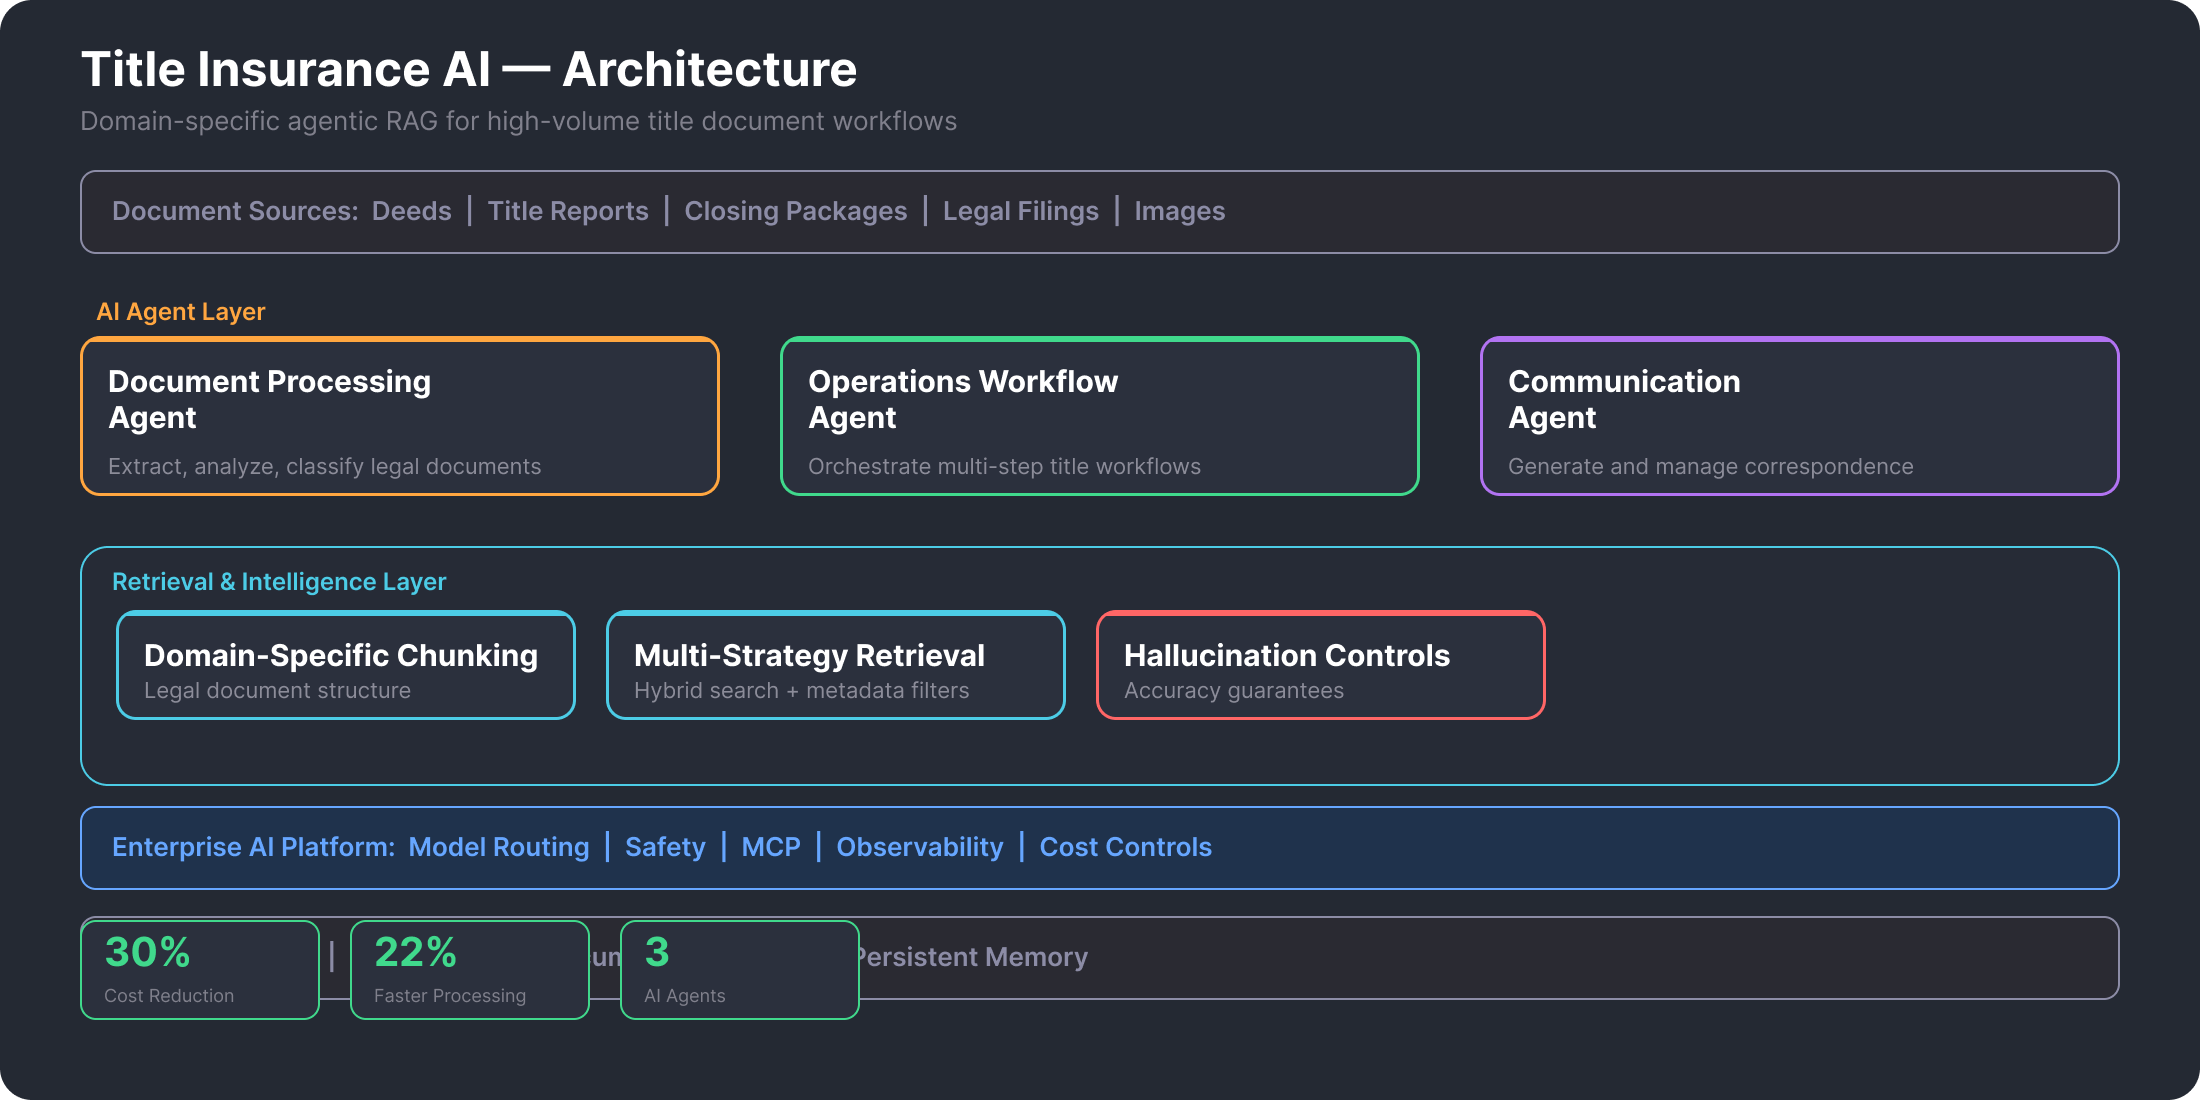
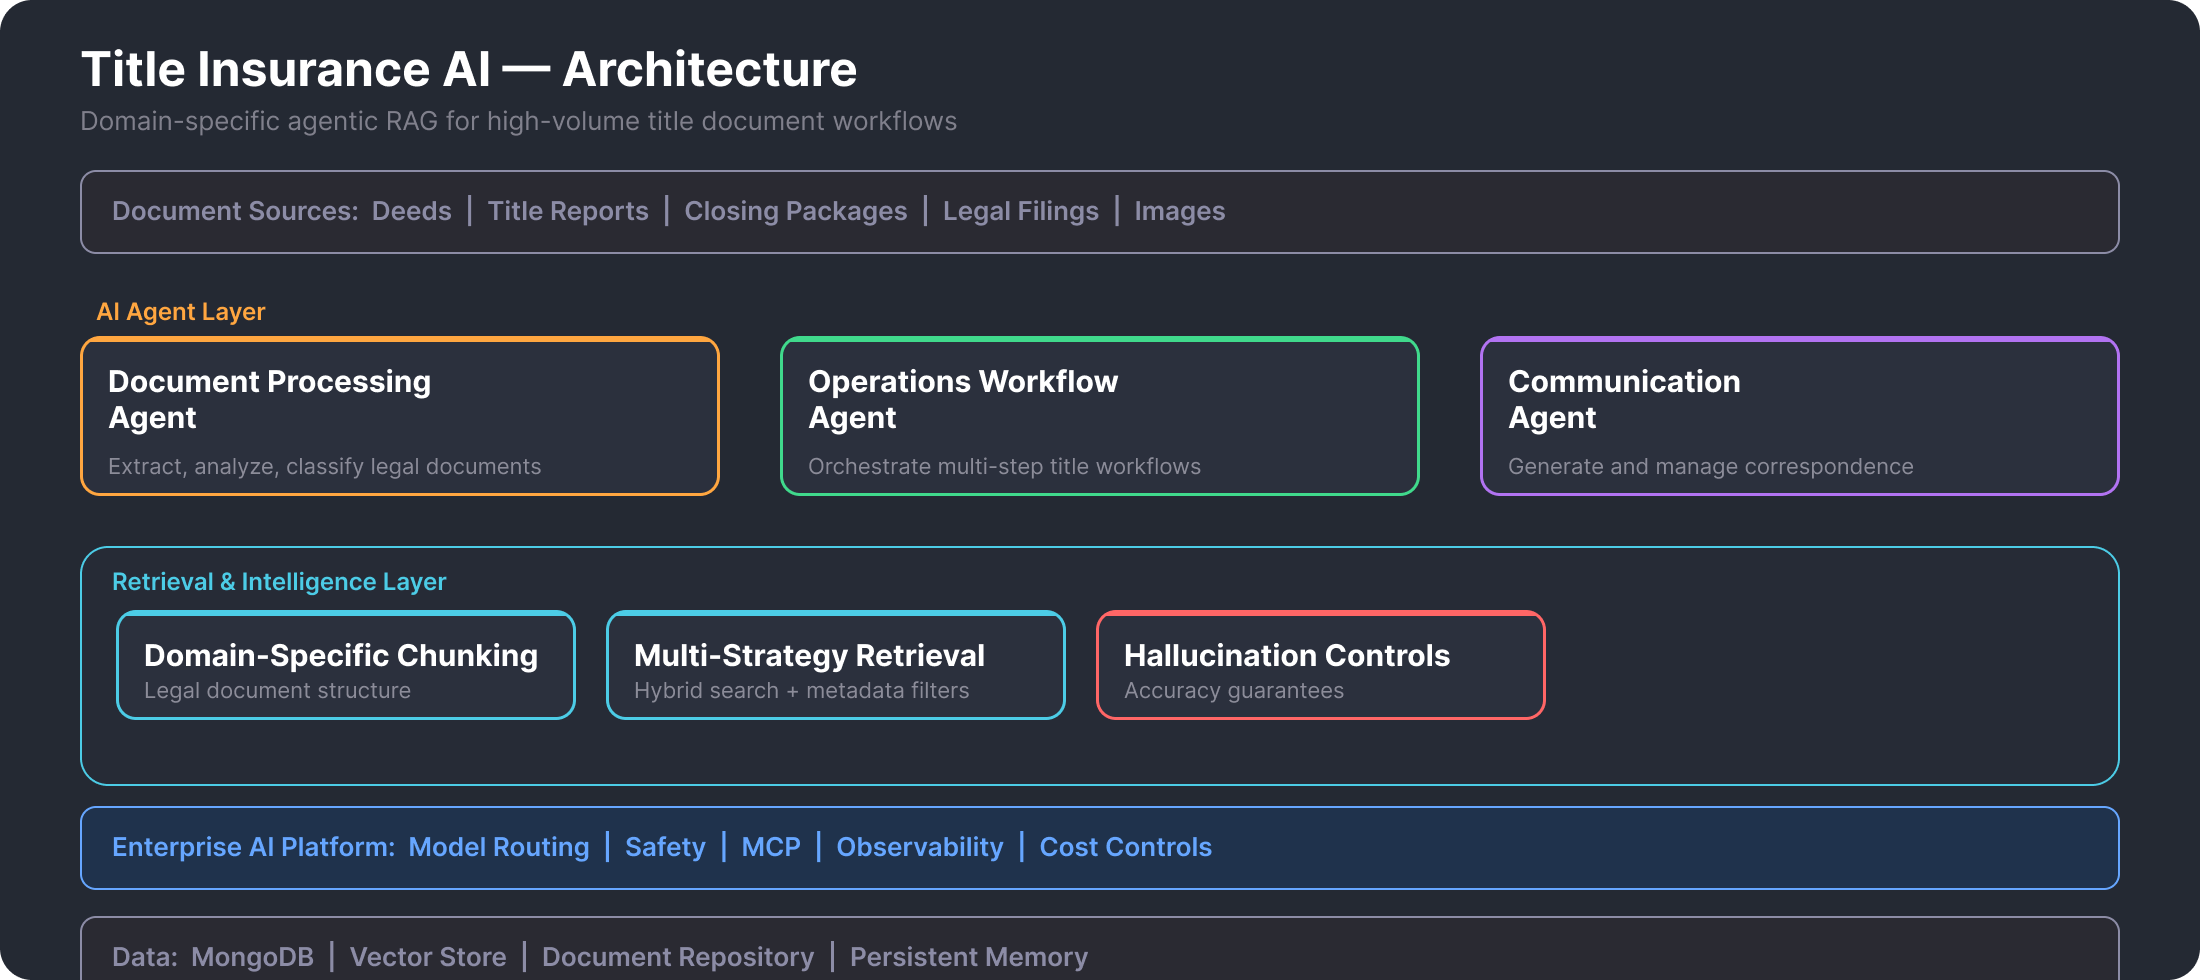
fix: Rewrite opening for senior staff level, fix diagram overlap
- Rewrite overview: large-scale, high-volume, enterprise — not 'domain-specific'
- Emphasize scale (thousands of docs daily, decades of records)
- Fix diagram: remove metric boxes that overlapped Data layer bar

diff --git a/projects/title-insurance-ai.html b/projects/title-insurance-ai.html
@@ -29,8 +29,8 @@
     <div class="content">
 
         <h2>Overview</h2>
-        <p>Built a domain-specific agentic RAG system for the title insurance business unit, where the volume and complexity of document processing exceeded what a general-purpose AI platform could support. Title operations deal with high-volume document search, examination workflows, and multi-party coordination &mdash; all backed by large, unstructured document repositories spanning decades of records.</p>
-        <p>The system deploys specialized AI agents that perform multi-step reasoning across document sets, extract structured data from complex legal and financial documents, and drive downstream actions based on retrieval results. Each agent is tuned to the domain's specific requirements &mdash; document structure preservation, regulatory accuracy, and strict data protection.</p>
+        <p>Designed and built a large-scale AI automation system for the title insurance business unit &mdash; one of the highest-volume, most document-intensive operations in the organization. The system processes thousands of legal and financial documents daily across examination workflows, closing coordination, and multi-party communications, backed by repositories spanning decades of unstructured records.</p>
+        <p>Deployed three specialized AI agents that perform multi-step reasoning across document sets, extract structured data from complex legal documents, and orchestrate downstream workflows. The architecture handles the unique challenges of this domain: hierarchical document structures that must be preserved during retrieval, regulatory accuracy requirements where errors have legal consequences, and strict data protection across a distributed system operating at enterprise scale.</p>
 
         <h3>Key Highlights</h3>
         <ul>
